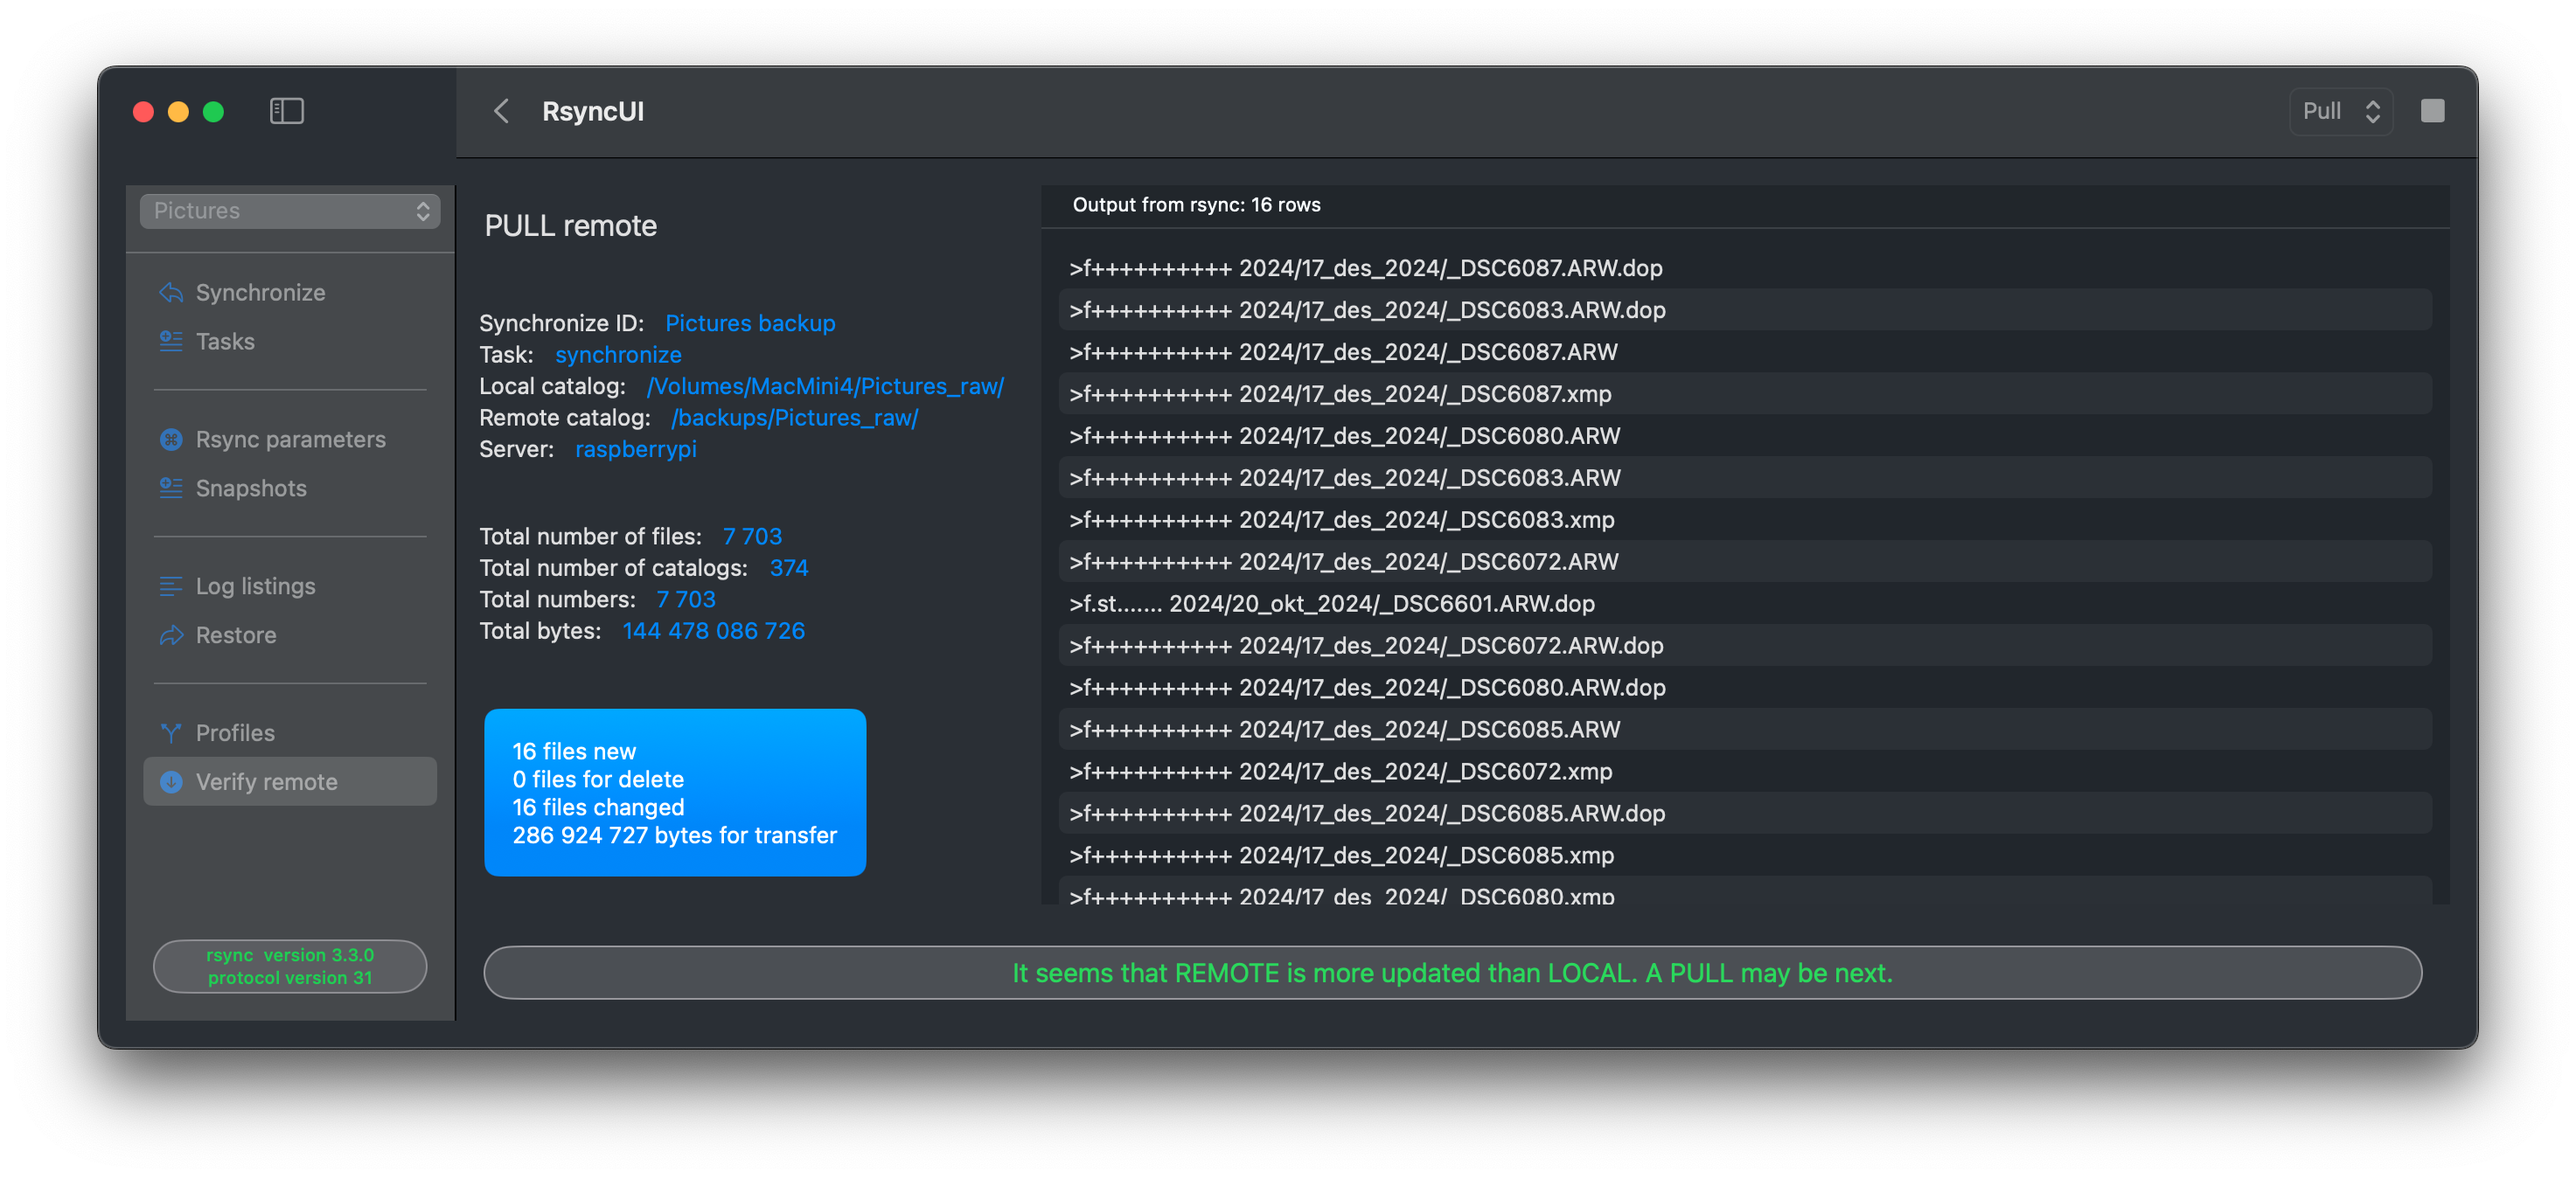
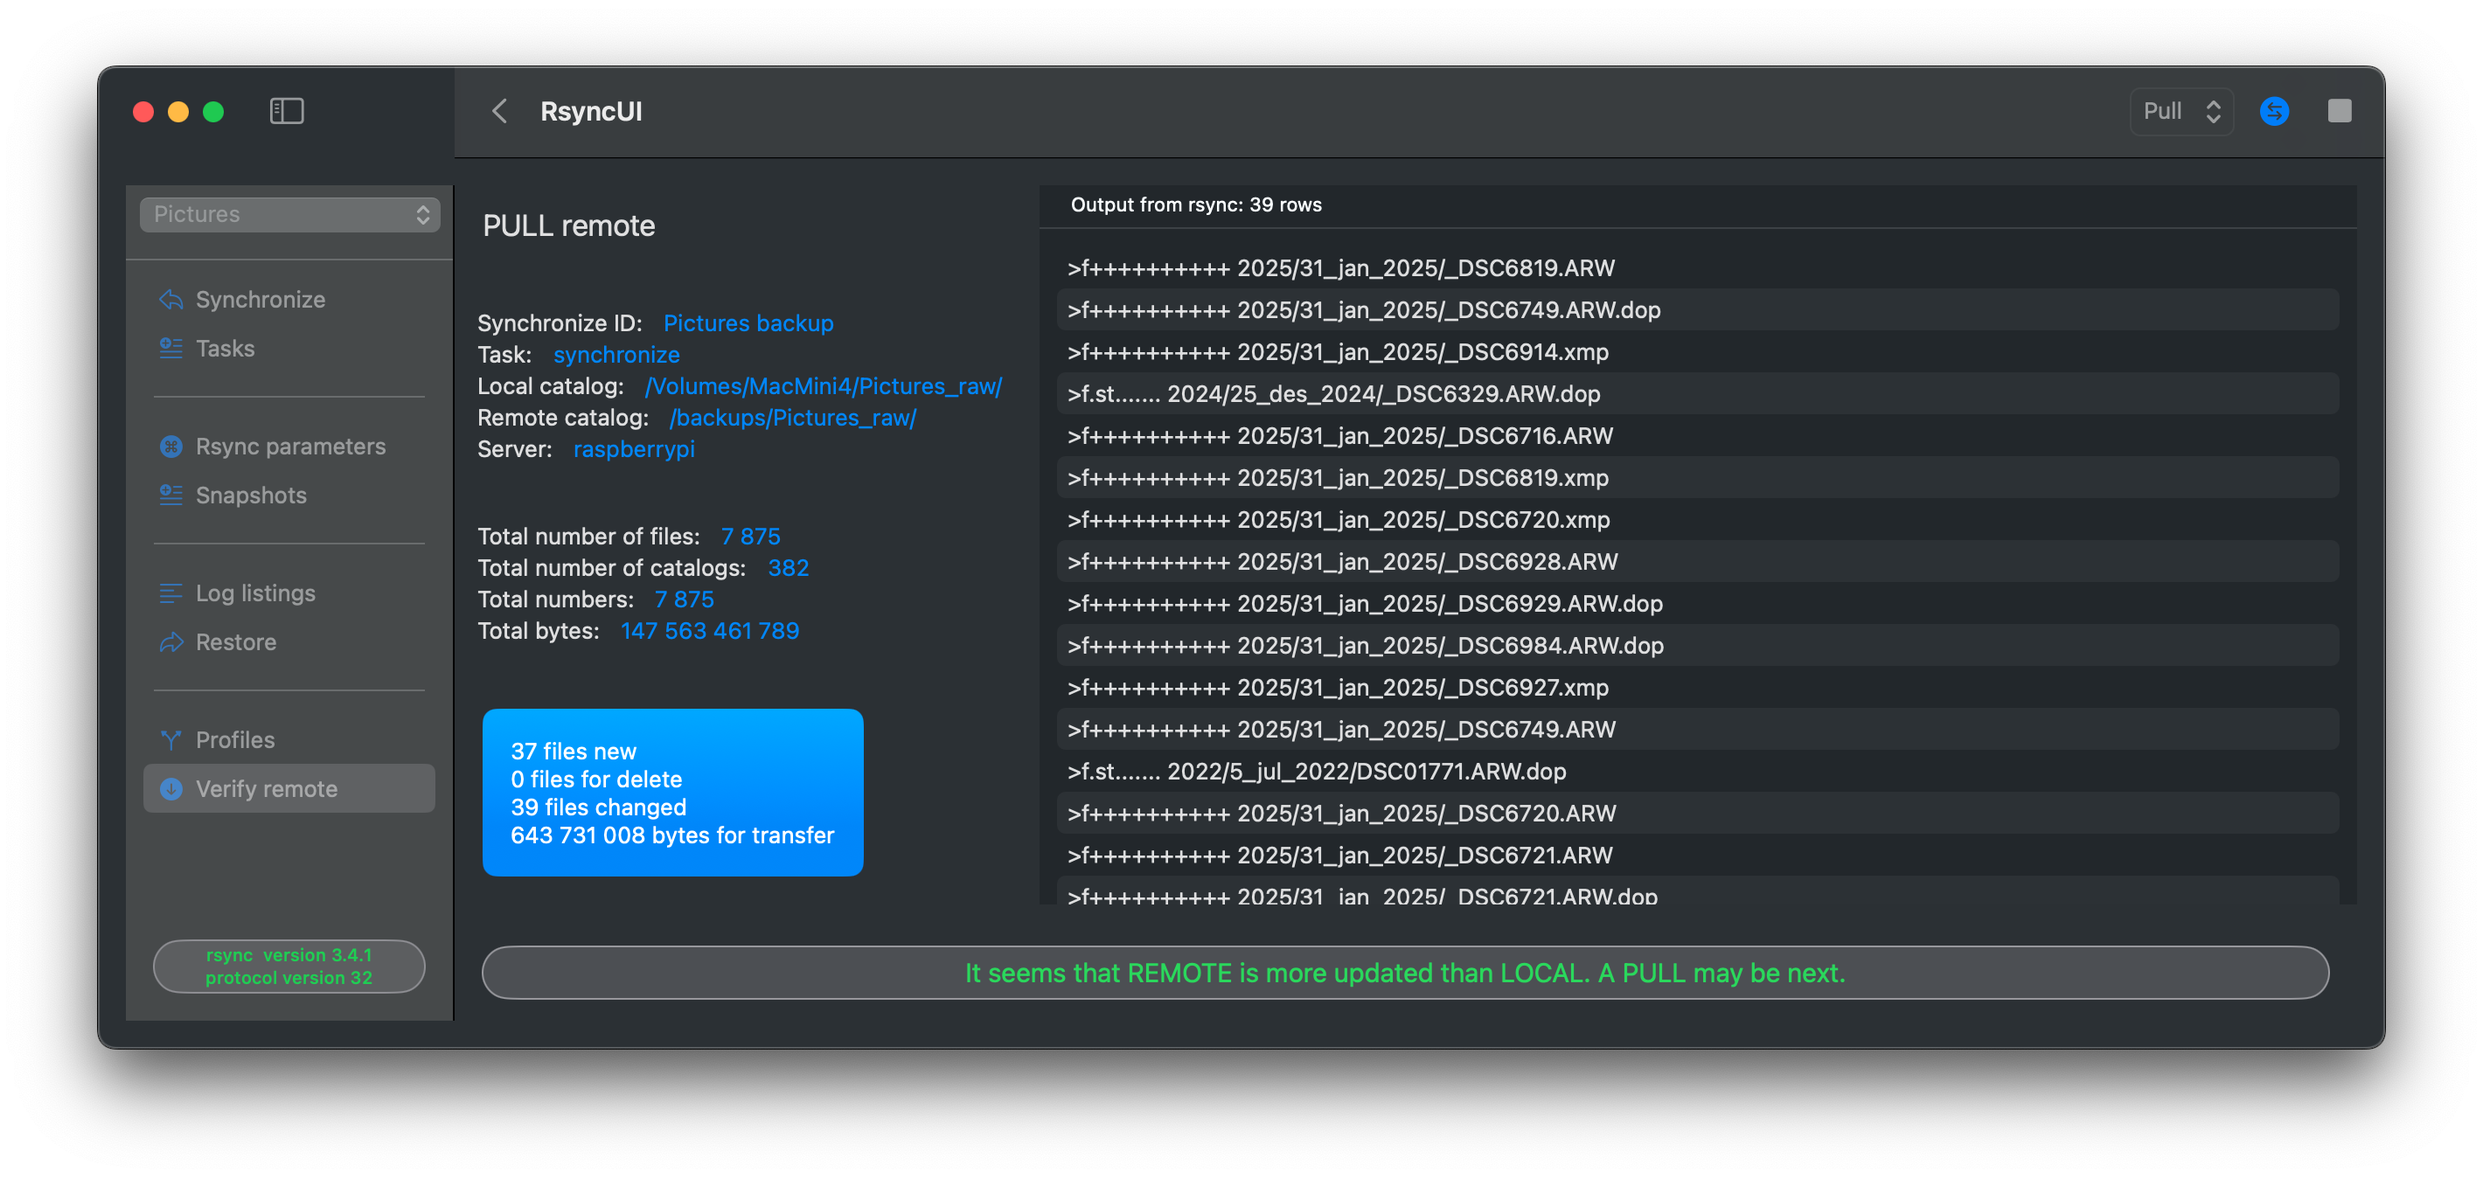
update

diff --git a/content/en/blog/ThoughtsVerify.md b/content/en/blog/ThoughtsVerify.md
@@ -14,24 +14,32 @@ The detailed output from rsync, utilizing the `--itemize-changes` arguments for 
 
 - `>f.st`: The file is being transferred *from the remote host* to the local host (pull).
 
-#### Short test
+#### A case to discuss
 
-Before the test commence, the local and remote only differs in timestamp for one file. One file in the local repository is more recently updated by date compared to the file in remote repository. This indicates a push operation by the verification.
+In January 2025, I was photographing birds at my mountain cabin and editing the images using my MacBook Pro. Upon returning home, I should have updated my Mac Mini 4 to synchronize with my MacBook Pro. All new photos on my MacBook Pro were successfully synchronized with my home server. Additionally, I synchronize photos to local SSDs when traveling.
 
-{{< figure src="/images/verify/pushafile.png" alt="" position="center" style="border-radius: 8px;" >}}
+**Important Note**: My remote photo repository is not a Git repository. If it were a Git repository, I could use a git pull command to update my local photos on my Mac Mini 4. To ensure the synchronization of my two Macs, I developed the Verify function.
 
-Then the date on the remote device was touched, and the date on the file was updated to the current time and date. Consequently, the verification now indicates a pull request.
+The Verify function was executed, and it indicated that the remote repository was more up-to-date, which was accurate. 
 
-{{< figure src="/images/verify/pullafile.png" alt="" position="center" style="border-radius: 8px;" >}}
 
-#### After the remote file was touched
+{{< figure src="/images/verify/verifycompleted.png" alt="" position="center" style="border-radius: 8px;" >}}
 
-**Important**: an estimate, like for a normal synchronize task, indicates that the file should be transferred *from the local host* to the remote host. But, if the parameter `--update` is added, rsync *will not* mark the file for transfer. The parameter instructs rsync to evaluate  timestamps and if remote timestamp is more up to date, the file is not tagged for synchronization. An estimate run without the `--update` parameter.
+The pull view is displayed, indicating the presence of new files on the remote server.
+
+- `>f.st`: The file is being transferred *from the remote host* to the local host (pull).
+
+{{< figure src="/images/verify/pullview.png" alt="" position="center" style="border-radius: 8px;" >}}
+
+Therefore, a remote pull is the appropriate solution.
+
+#### Danger Zone
+
+Prior to executing the data pull, I conducted a standard *estimation as first of a synchronization task* as I typically do to synchronize data between my local and remote systems. A standard synchronization, in RsyncUI, task includes adding the `—delete` parameter to maintain synchronization between the local and remote systems. However, due to the `—delete` parameter, rsync would **delete** the newly added files to my remote storage.
+
+This highlights the importance of carefully considering the next step when synchronizing multiple Macs to the same remote repository, particularly if the remote repository is not a Git repository.
+
 
 {{< figure src="/images/verify/synchronize.png" alt="" position="center" style="border-radius: 8px;" >}}
-
-#### With the parameter --update
-
- If the parameter `--update` is added, the estimate would show no files to synchronize. The challenge now seems to be that remote has a more up to date version of the file. But the Verify function seems to pick up that the file should be pulled from the remote.
 
 

diff --git a/content/en/docs/Verify.md b/content/en/docs/Verify.md
@@ -17,6 +17,8 @@ The verification applies only to remote destinations on servers.
 
 {{< alert color="warning" >}}
 
+I advice to read the short story "Thoughts about Verify" within the Blog section. 
+
 The user is solely responsible for determining the appropriate action. RsyncUI provides only advisory guidance, based on a rudimentary evaluation of a push and pull data comparison. Additionally, the function requires version 3.x of rsync to be installed and enabled.
 
 The Verify process necessitates that one of the Macs be synchronized with the remote. If both Macs have local unique updates, the outcome of the Verify is most likely inaccurate, potentially resulting in data loss.
